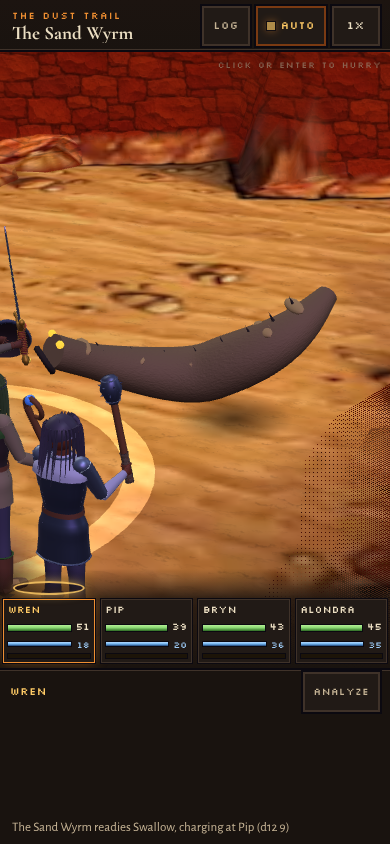
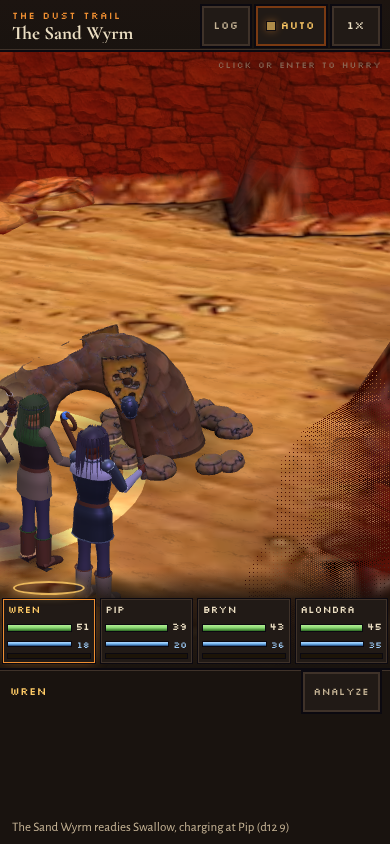
Fight: the Sand Wyrm in full detail on the Sunscorch page (Places' wyrm moves added); the swallow into its mouth and out again proven; SWALLOW_AT's 'ahead' and the kit's bones.mouth read
Uses prototypes/foe-hd/pages/desert-deep/moves/wyrm.js and foes/sand-wyrm (Places).

Claude-Session: https://claude.ai/code/session_01DgbUKYR9qmKyBdACUWGViw

diff --git a/world3d/battle/arena.js b/world3d/battle/arena.js
@@ -421,7 +421,7 @@ export const arena = {
     // with a swallower that has a mouth (parts.mouth, agreed with the foe lanes), the hero shrinks into it and comes back out of it
     if (held !== !!h.held) {
       const by = held ? [...this.foes.values()].find((G) => !G.removed && (G.act?.target === h.id || G.lastTarget === h.id)) : h.heldBy;
-      const mouth = by?.fig?.beast?.parts?.mouth;
+      const mouth = by?.fig?.beast?.parts?.mouth || by?.fig?.beast?.bones?.mouth;
       if (mouth) { h.gulp = { t: 0, out: !held, at: () => mouth.getWorldPosition(V3()) }; if (!held) this.fx?.sparks(mouth.getWorldPosition(V3()), '#e8f8ff', 18, { spread: 0.7 }); }
       else if (this.fx) { const p = h.pos.clone().setY(h.pos.y + 1); if (held) this.fx.sparks(p, '#7a5a8a', 22, { spread: 0.8 }); else { this.fx.ring(h.pos.clone(), '#c8f0ff', 1.6, 0.7); this.fx.sparks(p, '#e8f8ff', 18, { spread: 0.7, up: 1.3 }); } }
       if (!held && by && ownMove(by, 'spit') === 'spit') by.kpose = { name: 'spit', t: 0, dur: kitDur(by, 'spit') };
@@ -673,7 +673,7 @@ function stepFoe(ar, F, d, t, heroCenter) {
       const minAlong = front + 0.9 + F.size.d * 0.5, along = tp.dot(ar.dir); if (along < minAlong) tp.addScaledVector(ar.dir, minAlong - along);
       // a swallow: the foe stops with the hero exactly its reach in front of it (moves.EVENTS.swallow.reach, or SWALLOW_AT)
       const sw = a.kmove === 'swallow' && (F.fig.beast?.moves?.EVENTS?.swallow || F.fig.beast?.moves?.SWALLOW_AT || F.fig.beast?.SWALLOW_AT);
-      if (sw && sw.reach) tp.copy(h.pos).addScaledVector(dv, sw.reach);
+      const reach = sw && (sw.reach ?? sw.ahead); if (reach) tp.copy(h.pos).addScaledVector(dv, reach);
       // a winged foe's own carry-off, dive or swoop flies it forward itself (Models, November 23): no dash on top
       const flies = F.fig.beast?.plan === 'winged' && ['carry-off', 'dive', 'swoop'].includes(a.kmove);
       const go = flies ? 0 : seg(a.t, 0.18, 0.42), ret = a.bit && !flies ? seg(after, 0.35, 0.85) : 0;

diff --git a/world3d/fight.js b/world3d/fight.js
@@ -36,6 +36,7 @@ import { register as hdRegister, foeLook as hdFoeLook, addMoves } from '../proto
 // the lanes' own move sets, added before registering (session 6, November 23): the desert lane's scorpion and lizard
 import * as scorpionMoves from '../prototypes/foe-hd/pages/desert-deep/moves/scorpion.js';
 import * as lizardMoves from '../prototypes/foe-hd/pages/desert-deep/moves/lizard.js';
+import * as wyrmMoves from '../prototypes/foe-hd/pages/desert-deep/moves/wyrm.js';
 import { FOES as HD_FOES, WALKERS as HD_WALKERS } from 'fight-foe-assets';
 // session 8's walkers (the Rotwarden, the sapwight) go in with their own bones and moves, as Together's game does
 import { registerWalkers } from '../prototypes/foe-hd/pages/walkers/register.js';
@@ -79,7 +80,7 @@ SCENES.den = encScene('briarmaw-den');
 const LOOKS = ['hd', '3d', 'cutout'];
 let look = LOOKS.includes(Q.get('foes')) ? Q.get('foes') : 'hd', hdLook = null;
 async function useLook(k) {
-  if (k === 'hd' && !hdLook) { await hdReady(); addMoves('scorpion', scorpionMoves); addMoves('lizard', lizardMoves); for (const A of HD_FOES) hdRegister(A, { res: Number(Object.keys(A.tex)[0]) }); registerWalkers(HD_WALKERS, hdRegister); hdLook = withWinged(withArmoured(withWraiths(hdFoeLook(buildBeast)))); }
+  if (k === 'hd' && !hdLook) { await hdReady(); addMoves('scorpion', scorpionMoves); addMoves('lizard', lizardMoves); addMoves('wyrm', wyrmMoves); for (const A of HD_FOES) hdRegister(A, { res: Number(Object.keys(A.tex)[0]) }); registerWalkers(HD_WALKERS, hdRegister); hdLook = withWinged(withArmoured(withWraiths(hdFoeLook(buildBeast)))); }
   setBeastLook(k === 'cutout' ? standeeLook : k === 'hd' ? hdLook : null);
 }
 let SC = Q.get('enc') && encScene(Q.get('enc')) || SCENES[Q.get('fight') === 'briarmaw' ? 'den' : 'road'];

diff --git a/world3d/battle/champions.js b/world3d/battle/champions.js
@@ -576,7 +576,7 @@ export const MOMENTS = {
     land: (c) => { c.shake(3); for (const h of c.heroes) c.fx.smoke(feet(h).setY(h.pos.y + 0.6), '#d8b880', 12, 1.4, 1.6); },
   },
   'sand-wyrm:scale-grind': { // "It grinds the great scale in its hide against the sinkhole wall: ... the sand has you to the knees (Rooted)."
-    move: ['scale-grind', 'swipe'], camera: 'wide',
+    move: ['scale-grind', 'grind', 'swipe'], camera: 'wide',
     start: (c) => { c.fx.sparks(mid(c), '#ffd27a', 40, { spread: 1.6, up: 0.6 }); },
     land: (c) => { for (const h of c.all) { c.fx.smoke(feet(h), '#d8b880', 6, 0.8, 1.6); c.fx.ring(feet(h), '#c8a070', 1.1, 1.4); } },
   },

diff --git a/docs/project/slips/fight.md b/docs/project/slips/fight.md
@@ -195,6 +195,10 @@
   **Built in the arena now** (November 23), ready for when their models land: the reach, the hero into and out of
   parts.mouth, `full` and `spit`, SINKS. Today's models have no mouth, so they keep the burst; proven headless: the Sand
   Wyrm's lair with `?land=1`, Pip swallowed, held and let go, the Sand-Dive, no errors.
+  **The Sand Wyrm in full detail** (Places, November 23) on the Sunscorch page: its own moves (maw, thrash, dive,
+  swallow, grind); the swallow seen headless: it plunges with its mouth over the hero, the hero goes into its mouth,
+  `full` while they're inside, out of the mouth on `spit` (fight-stills/sand-wyrm-swallow.png, sand-wyrm-spit.png);
+  a real fight with `?land=1`: swallowed, held, let go, no errors. Reads SWALLOW_AT {u, ahead} as well as EVENTS.
 - **Fixed November 23**: an effect started by a delayed one (fx.later) used to stand frozen on the field (dropped from
   the effects list); the turn strip steps aside during a close-up or wide camera; close-up spots scored by a fan of
   rays (built things, rock, trees, ground too near).
